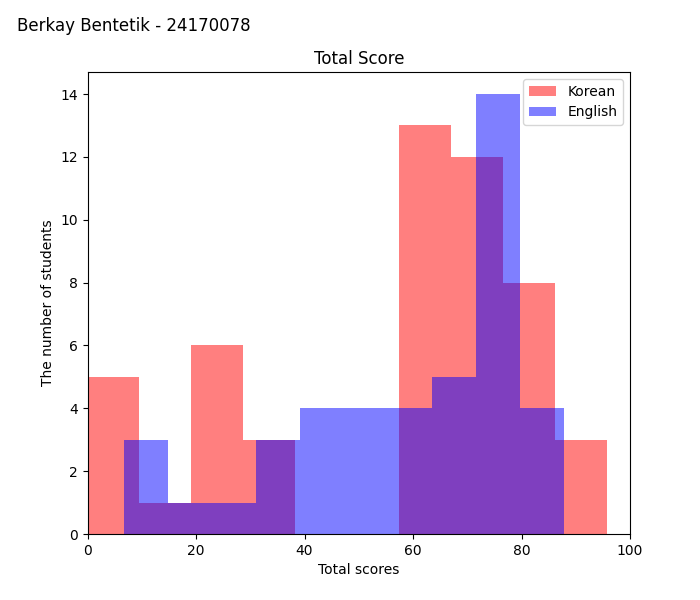
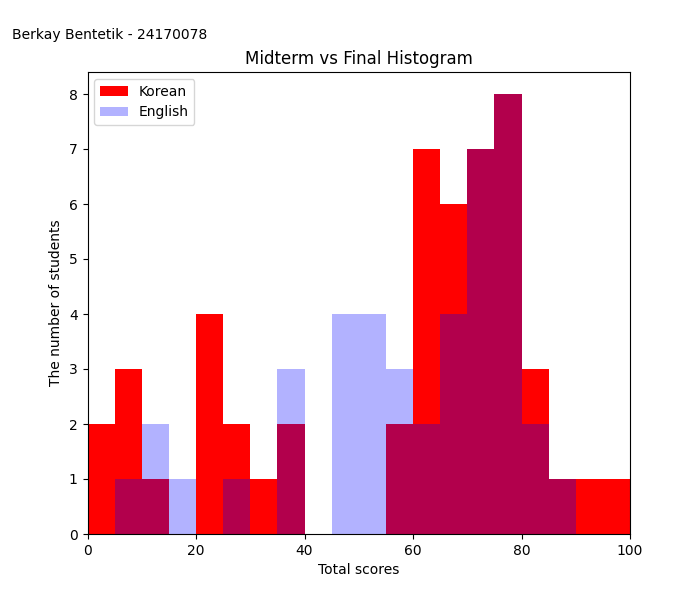
final

diff --git a/Lab04/class_score_plot_skeleton.py b/Lab04/class_score_plot_skeleton.py
@@ -18,38 +18,62 @@ if __name__ == '__main__':
     class_kr = read_data('data/class_score_kr.csv')
     class_en = read_data('data/class_score_en.csv')
 
-    # TODO) Prepare midterm, final, and total scores
+    # Read both Korean and English class scores
     midterm_kr, final_kr = zip(*class_kr)
     total_kr = [40/125*midterm + 60/100*final for (midterm, final) in class_kr]
     midterm_en, final_en = zip(*class_en)
     total_en = [40 / 125 * midterm + 60 / 100 * final for (midterm, final) in class_en]
 
-    # TODO) Plot midterm/final scores as points
+    # --- Scatter Plot ---
+    # Create a figure and set up the plot
     plt.figure(figsize=(7, 6))
     plt.scatter(midterm_kr, final_kr, color='red', label='Korean')
     plt.scatter(midterm_en, final_en, color='blue', label='English', marker='+')
+
+    #Limit for x and y-axis
     plt.xlim(0, 125)
     plt.ylim(0, 100)
+
+    # Labeling
     plt.title('Midterm vs Final Scatter')
     plt.xlabel('Midterm scores')
     plt.ylabel('Final scores')
+
+    # Add grid
     plt.grid(True)
-    plt.legend()
-    plt.text(37, 109, 'Berkay Bentetik - 24170078', fontsize=12, color='black', alpha=1, ha='right')
+
+    # Add legend
+    plt.legend(loc= 'upper left')
+
+    # Add watermark text
+    plt.text(28, 107, 'Berkay Bentetik - 24170078', fontsize=10, color='black', alpha=1, ha='right')
+
+    # Save and show the plot
     plt.savefig('class_score_scatter.png')
     plt.show()
 
 
-    # TODO) Plot total scores as a histogram
+    # --- Histogram Plot ---
+    # Create a figure and set up the plot
+    bins = range(0, 105, 5)
     plt.figure(figsize=(7, 6))
-    plt.hist(total_kr, bins=10, alpha=0.5, color='red', label='Korean')
-    plt.hist(total_en, bins=10, alpha=0.5, color='blue', label='English')
-    plt.legend()
+    plt.hist(total_kr, bins=bins, alpha=1, color='red', label='Korean')
+    plt.hist(total_en, bins=bins, alpha=0.3, color='blue', label='English')
+
+    # Limit for x-axis
     plt.xlim(0, 100)
-    plt.title('Total Score')
+
+    # Labeling
+    plt.title('Midterm vs Final Histogram')
     plt.xlabel('Total scores')
     plt.ylabel('The number of students')
 
-    plt.text(30, 16, 'Berkay Bentetik - 24170078', fontsize=12, color='black', alpha=1, ha='right')
+    # Add legend
+    plt.legend(loc='upper left')
+
+    # Add watermark text
+    plt.text(22, 9, 'Berkay Bentetik - 24170078', fontsize=10, color='black', alpha=1, ha='right')
+
+    # Save and show the plot
     plt.savefig('class_score_hist.png')
     plt.show()
